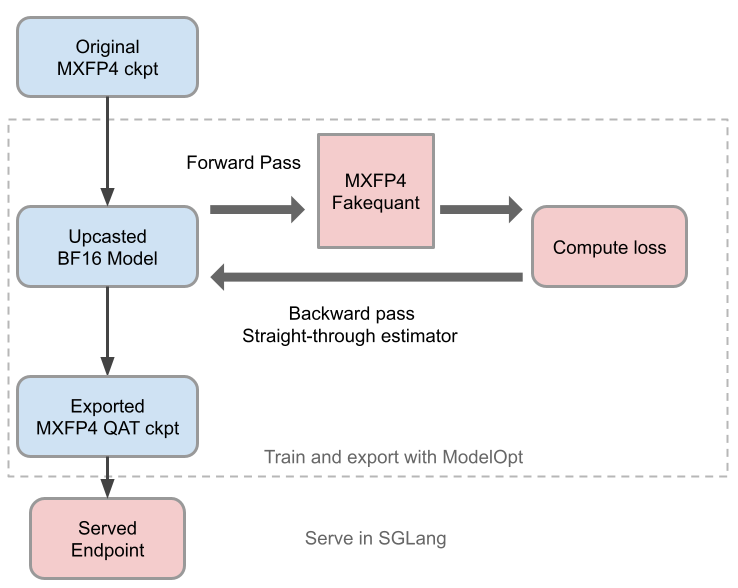
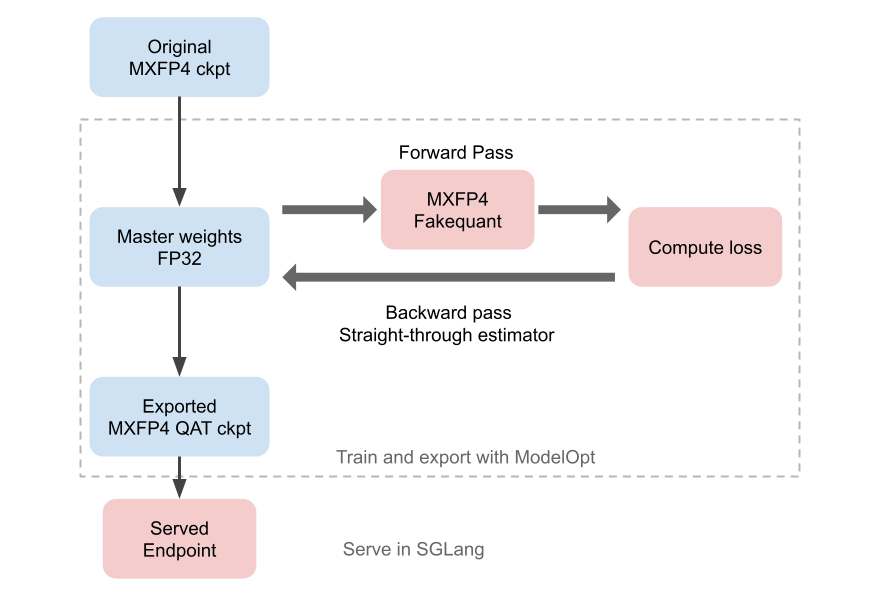
fix minor issues and figures

diff --git a/blog/2025-08-22-gpt-oss-qat.md b/blog/2025-08-22-gpt-oss-qat.md
@@ -8,14 +8,13 @@ previewImg: /images/blog/nvidia-gpt-oss-qat/preview-gpt-oss-qat.png
 
 GPT-OSS, the first open-source model family from OpenAI’s lab since GPT-2, demonstrates strong math, coding and general capabilities, even when compared with much larger models. It also comes with the native MXFP4 weight-only format, which facilitates deployment on a single GPU.
 
-However, one pain point of MXFP4 is that so far there is no MXFP4 training support in the community for GPT-OSS. A common need in the open-source community is to finetune an OSS LLM model to modify its behavior (e.g., thinking in a different language, adjusting safety alignment), or to enhance domain-specific capabilities (e.g., function call, SQL scripting).  
-Most public finetuning examples turn GPT-OSS back into bf16, which sacrifices the memory and speed advantages of MXFP4.
+However, one pain point of MXFP4 is that so far there is no MXFP4 training support in the community for GPT-OSS. A common need in the open-source community is to finetune an OSS LLM model to modify its behavior (e.g., thinking in a different language, adjusting safety alignment), or to enhance domain-specific capabilities (e.g., function call, SQL scripting). Most public finetuning examples convert GPT-OSS back into bf16, which sacrifices the memory and speed advantages of MXFP4.
 
 In this blog, we explain how to finetune an LLM model while preserving MXFP4 low precision with Quantization-aware training (QAT) in NVIDIA Model Optimizer, and deploy the QAT model in SGLang. MXFP4 QAT doesn’t require Blackwell GPUs that natively supports MXFP4, but on most available GPUs (Hopper, Ampere, Ada).
 
 ### What is Quantization-Aware Training (QAT)
 
-QAT is a training technique to recover model accuracy from quantization. We show above a simplified illustration of QAT. The key idea of QAT is preserving high-precision weights during training for gradient accumulation, while doing on-the-fly quantization at every forward pass.  
+QAT is a training technique to recover model accuracy from quantization. We show above a simplified illustration of QAT. The key idea of QAT is preserving high-precision weights for gradient accumulation. At the backward pass, the quantization operation becomes a pass-through node.
 ![qat.png](/images/blog/nvidia-gpt-oss-qat/qat.png)
 
 Below is a more detailed guide of QAT:  
@@ -27,13 +26,13 @@ Below is a more detailed guide of QAT:
 
 It should be noted that native quantized training and QLoRA are often confused with QAT, but they serve different purposes. 
 
-- *QLoRA* reduces training memory for LoRA finetuning. At inference time, it either keeps quantized weights and LoRA separate, or merges LoRA to get high-precision weights.
-- *Native quantized training* enables efficient training and inference. Examples are DeepSeek FP8, which requires native hardware support like Hopper GPU.
-- *QAT* empowers quantized inference with better accuracy. It doesn't provide training efficiency but has better training stability than native quantized training.
+- **QLoRA** reduces training memory for LoRA finetuning. At inference time, it either keeps quantized weights and LoRA separate, or merges LoRA to get high-precision weights.
+- **Native quantized training** enables efficient training and inference. Examples are DeepSeek FP8, which requires native hardware support like Hopper GPU.
+- **QAT** empowers quantized inference with better accuracy. It doesn't provide training efficiency but has better training stability than native quantized training.
 
 ### QAT with NVIDIA ModelOpt
 
-Here is the sample code to do QAT with ModelOpt. For full code examples, please refer to our gpt-oss-recipes [here](https://github.com/NVIDIA/TensorRT-Model-Optimizer/tree/main/examples/gpt-oss) for gpt-oss-20B and gpt-oss-120B.
+Here is the sample code to do QAT with ModelOpt. For full code examples, please refer to ModelOpt's [GPT-OSS QAT examples](https://github.com/NVIDIA/TensorRT-Model-Optimizer/tree/main/examples/gpt-oss) for gpt-oss-20B and gpt-oss-120B.
 
 ```py
 import modelopt.torch.quantization as mtq
@@ -52,7 +51,7 @@ train(model, train_loader, optimizer, scheduler, ...)
 
 ```
 
-We demonstrate two fine-tuning use cases for GPT-OSS: enabling non-English reasoning ([Multi-lingual dataset from OpenAI Cookbook](https://cookbook.openai.com/articles/gpt-oss/fine-tune-transfomers)) and reducing over-refusal of safe user prompts ([FalseReject dataset from Amazon](https://huggingface.co/datasets/AmazonScience/FalseReject)). GPT-OSS originally performs poorly in both cases. 
+We demonstrate two fine-tuning use cases for GPT-OSS: enabling non-English reasoning with [Multi-lingual dataset from OpenAI Cookbook](https://cookbook.openai.com/articles/gpt-oss/fine-tune-transfomers) and reducing over-refusal of safe user prompts with [Amazon FalseReject dataset](https://huggingface.co/datasets/AmazonScience/FalseReject). GPT-OSS originally performs poorly in both cases. 
 
 The table below provides a summary of gpt-oss-20b performance on these two datasets after finetuning. SFT only provides good accuracy, but SFT creates a high-precision model. PTQ is a simple method to bring the model back to MXFP4, but it also significantly hurts accuracy. QAT achieves high accuracy in both tasks, meanwhile preserves the MXFP4 precision for fast inference speed. 
 
@@ -65,13 +64,13 @@ The table below provides a summary of gpt-oss-20b performance on these two datas
 
 ### Deploy the QAT model
 
-After QAT, the model is stored in BF16. ModelOpt provides a simple [script](https://github.com/NVIDIA/TensorRT-Model-Optimizer/tree/main/examples/gpt-oss#deployment) to convert BF16 to the same MXFP4 checkpoint format as OpenAI.
+After QAT, the model is stored in BF16. ModelOpt provides [a conversion script](https://github.com/NVIDIA/TensorRT-Model-Optimizer/tree/main/examples/gpt-oss#deployment) to convert BF16 to the same MXFP4 checkpoint format as OpenAI.
 
 ```
 python examples/gpt-oss/convert_oai_mxfp4_weight_only.py --model_path <model_path> --output_path <output_path>
 ```
 
-After obtaining the MXFP4 ckpt, you can deploy it to SGLang with simple commands(follow instructions [here](https://github.com/sgl-project/sglang/issues/8833) to setup SGLang for GPT-OSS). (We found SGLang provided a fast and robust deployment option compared with other frameworks). We have also prepared [a finetuned checkpoint](https://huggingface.co/huizimao/gpt-oss-20b-helpful-MXFP4-QAT) with a reduced refusal rate. 
+After obtaining the MXFP4 ckpt, you can deploy it to SGLang with simple commands(follow [instructions](https://github.com/sgl-project/sglang/issues/8833) to setup SGLang for GPT-OSS). (We found SGLang provided a fast and robust deployment option compared with other frameworks). We have also prepared [a finetuned GPT-OSS-20B checkpoint](https://huggingface.co/huizimao/gpt-oss-20b-helpful-MXFP4-QAT) with a reduced refusal rate. 
 
 SGLang version: v0.5.0rc2  
 SGLang command:
@@ -84,7 +83,7 @@ python3 -m sglang.launch_server --model-path <checkpoint_path>  --tp <tp_s
 
 Now test the fintuned model and compare it with the original GPT-OSS-20b.
 
-```
+```text
 # User prompt:
 Tell me 5 ways to make fire.
 
@@ -103,13 +102,12 @@ Creating fire can be essential in various situations, from survival scenarios to
 
 ### Additional Resources
 
-[QAT Code example](https://github.com/NVIDIA/TensorRT-Model-Optimizer/tree/main/examples/gpt-oss) can be run with the latest main of ModelOpt (08/25).
+In [QAT Code example](https://github.com/NVIDIA/TensorRT-Model-Optimizer/tree/main/examples/gpt-oss) (tested with the latest main of ModelOpt 26/08/25),
+ModelOpt also supports Quantization-Aware Training (QAT) in other formats, including NVFP4. Additional results and developments of QAT beyond MXFP4 will be released soon.
 
-Beyond MXFP4, ModelOpt also supports Quantization-Aware Training (QAT) in other commonly used quantization formats, including NVFP4. Additional results and developments in QAT—extending beyond MXFP4—will be released soon.
+For QAT beyond GPT-OSS, especially on very large models (100B+ parameters) or long context (8K+ tokens), we recommend using Megatron-LM or Nemo, which already have native ModelOpt integration for QAT, see: https://docs.nvidia.com/nemo-framework/user-guide/latest/nemotoolkit/nlp/quantization.html 
 
-To do QAT for models beyond GPT-OSS, especially very large models (100B+ parameters) or long context (8K+ tokens), we recommend using Megatron-LM or Nemo, which already have native ModelOpt integration for QAT, see: https://docs.nvidia.com/nemo-framework/user-guide/latest/nemotoolkit/nlp/quantization.html 
-
-ModelOpt native quantization support in SGLang is planned and already included in the SGLang 2025 H2 roadmap (https://github.com/sgl-project/sglang/issues/7736).
+ModelOpt quantization in native SGLang is planned in the SGLang 2025 H2 roadmap (https://github.com/sgl-project/sglang/issues/7736).
 
 ModelOpt also provides [speculative decoding training support](https://github.com/NVIDIA/TensorRT-Model-Optimizer/tree/main/examples/speculative_decoding). Find our trained [GPT-OSS eagle3 checkpoint on HF](https://huggingface.co/nvidia/gpt-oss-120b-Eagle3).
 
